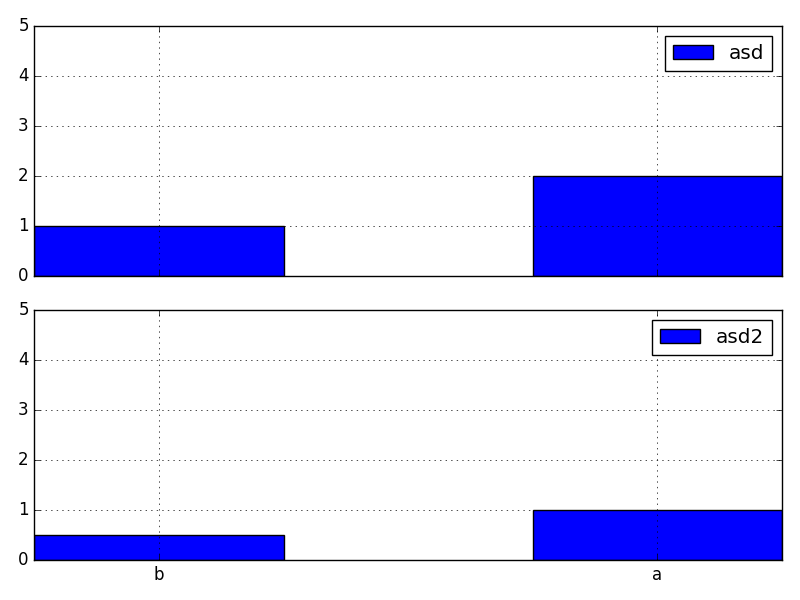
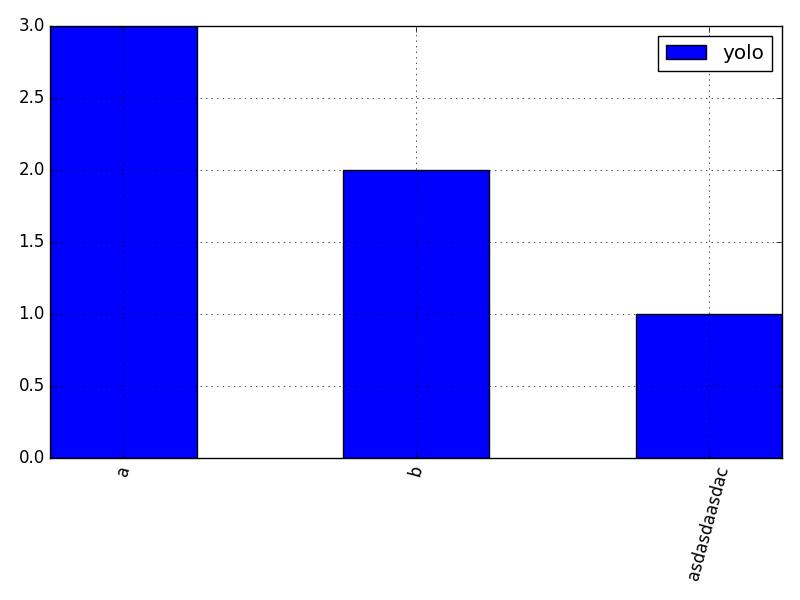
Add rotation to labels

diff --git a/graph_generator.py b/graph_generator.py
@@ -46,6 +46,7 @@ class GraphGenerator():
                 if d.has_key('type') and d['type'] == 'x_string':
                     axes[i].set_xticks(d['x_ticks_pos'])
                     axes[i].set_xticklabels(d['x_ticks'])
+                    plt.xticks(rotation=d['x_ticks_rotate'])
             else:
                 axes[i].plot(d['x'],d['y'],label=label)
                 
@@ -117,6 +118,18 @@ def get_bar_formats(y):
 def get_filler_x_from_y(y):
     return range(len(y))
 
+def get_rotatation_angle(x_ticks):
+
+    max_tick_length = max(map(len, x_ticks ))
+    # Rotate if ticks are longer than 5 characters
+
+    if max_tick_length <= 5:
+        return 0
+    elif max_tick_length <= 8:
+        return 45
+    else:
+        return 75
+
 def parse_data_args(s):
     #try:   
         
@@ -137,21 +150,21 @@ def parse_data_args(s):
             except ValueError as e:
 
                 y0 = [float(i) for i in y.split(',')]
-                x_labels = x.split(',')
+                x_ticks = x.split(',')
 
                 # If y and x are same length, assume 2nd value is ment as x-values
 
-                if len(y0) == len(x_labels):
+                if len(y0) == len(x_ticks):
                     # Both are not number series
                     # Try y0;x_labels
                     #   y0 = float
                     #   x_labels = strings
-
                     return { 
                         'x': get_filler_x_from_y(y0),
                         'y': y0,
-                        'x_ticks' : x_labels,
+                        'x_ticks' : x_ticks,
                         'x_ticks_pos' : get_bar_formats(y0),
+                        'x_ticks_rotate' : get_rotatation_angle(x_ticks),
                         'type': 'x_string'
                         }
 
@@ -185,11 +198,13 @@ def parse_data_args(s):
                 #   y0 = float
                 #   x_labels = strings
                 #   label = string
+                x_ticks = x.split(',')
                 return {
                         'y': y0,
                         'x': get_filler_x_from_y(y0),
-                        'x_ticks' : x.split(','),
+                        'x_ticks' : x_ticks,
                         'x_ticks_pos' : get_bar_formats(y0),
+                        'x_ticks_rotate' : get_rotatation_angle(x_ticks),
                         'type': 'x_string',
                         'label' : label }
 

diff --git a/README.MD b/README.MD
@@ -68,8 +68,37 @@ display images/bar_graph.png
 ```
 ![Bar graph](/images/bar_graph.png)
 
+
+**Example: Bar chart (improved)**
+Add text labels on the x-axis
+```bash
+# Get number of lines per file in this repo
+FILE_CHARS=$(find * -type f | xargs wc -l | grep -v total | tr -s ' ' | cut -f2 -d" " | tr "\n" ",")
+FILE_NAMES=$(find * -type f | tr '\n' ',')
+
+#Remove trailing comma
+FILE_CHARS=${FILE_CHARS::-1}
+FILE_NAMES=${FILE_NAMES::-1}
+
+#Set nice title for the graph
+TITLE="# of lines in file"
+
+# Create graph
+python graph_generator.py --data-set "$FILE_CHARS;$FILE_NAMES;$TITLE" --filename images/bar_graph2.png --graph-type bar
+
+display images/bar_graph2.png
+
+
+```
+![Bar graph](/images/bar_graph2.png)
+
+
+
 ## Possible improvements
-* Use strings on the x-axis instead of numbers
+* ~~Use strings on the x-axis instead of numbers~~
 * Automatically choose colors of bar charts
+* Add bars side by side
 * Being able to specify color, width and type of line or bar charts
 * Allow other type of charts
+
+
